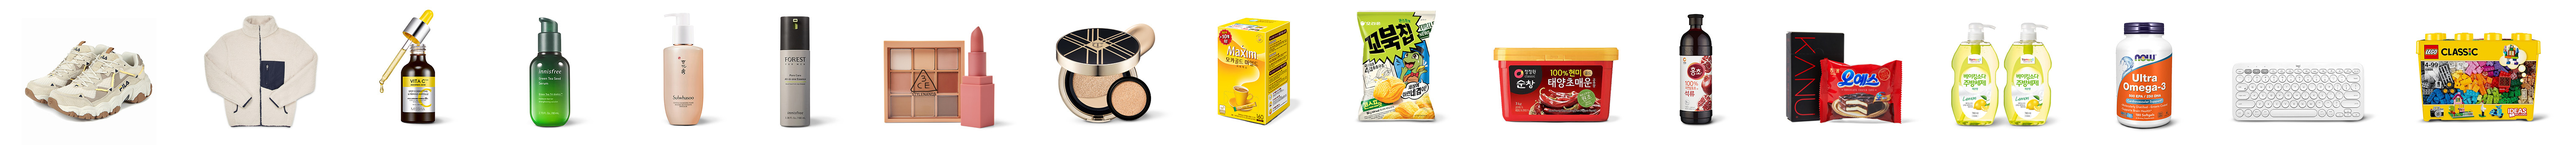
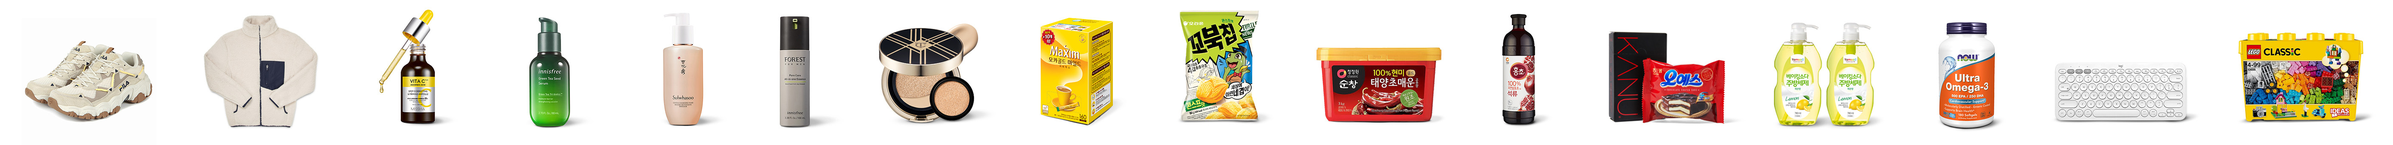
update: text '3 days' to '5 days', remove 3CE product image

diff --git a/tw/index_tw.html b/tw/index_tw.html
@@ -6,7 +6,7 @@
   <meta http-equiv="X-UA-Compatible" content="IE=edge">
   <meta name="viewport" content="width=device-width, initial-scale=1.0">
   <meta name="author" content="Coupang">
-  <meta name="description" content="火箭跨境是一家全方位電子商務平台，數百萬種韓、美跨境商品 3 天送到家">
+  <meta name="description" content="火箭跨境是一家全方位電子商務平台，數百萬種韓、美跨境商品 最快 5 天送到家">
   <title>酷澎 火箭跨境</title>
   <link rel="icon" href="./images/favicon.png" type="image/gif" sizes="16x16">
 
@@ -152,7 +152,7 @@
 
           <div class="carousel-caption carousel-flex-item text-start">
             <img class="logo-image" src="images/RocketOverseas_white.svg" alt="火箭跨境" title="火箭跨境">
-            <h1>數百萬種韓、美跨境商品 <br> 最快 3 天送到家</h1>
+            <h1>數百萬種韓、美跨境商品 <br> 最快 5 天送到家</h1>
             <!-- <p>配送時間可能因您所在地區而不同。</p> -->
           </div>
 

diff --git a/tw/index_en.html b/tw/index_en.html
@@ -7,7 +7,7 @@
   <meta name="viewport" content="width=device-width, initial-scale=1.0">
   <meta name="author" content="Coupang">
   <meta name="description"
-    content="Coupang Rocket Overseas is one of the biggest e-commerce platforms with millions of overseas products ready to be delivered in 3 days.">
+    content="Coupang Rocket Overseas is one of the biggest e-commerce platforms with millions of overseas products ready to be delivered in 5 days.">
   <title>Coupang Rocket Overseas</title>
   <link rel="icon" href="./images/favicon.png" type="image/gif" sizes="16x16">
 
@@ -165,7 +165,7 @@
 
           <div class="carousel-caption text-start">
             <img class="logo-image" src="images/RocketOverseas_white.svg" alt="Coupang Rocket Overseas">
-            <h1>Millions of overseas products delivered from South Korea and the United States in 3 days²</h1>
+            <h1>Millions of overseas products delivered from South Korea and the United States in 5 days²</h1>
           </div>
         </div>
       </div>
